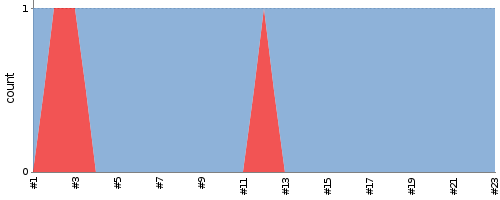
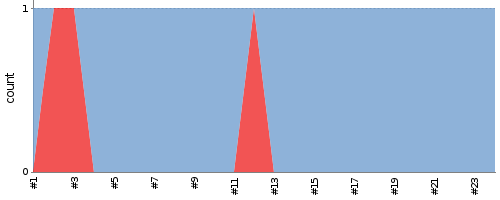
update report

diff --git a/index.md b/index.md
@@ -1,7 +1,7 @@
 ---
 layout: default
 ---
-Last update : 2016/01/30 13:21:10
+Last update : 2016/01/30 13:34:17
   
 ### Job Summary
 ___
@@ -306,11 +306,12 @@ ___
 ___
 #### Build Stability
 ![Jenkins Icon](http://jenkinshrg.github.io/images/48x48/health-80plus.png)
-87%
+88%
   
 #### Build History
 |Status|Time|Duration|Inspection|Test|Coverage|Changes|Build|Console|Image|Video|Note|
 |---|---|---|---|---|---|---|---|---|---|---|---|---|
+|![Jenkins Icon](http://jenkinshrg.github.io/images/24x24/blue.png)SUCCESS|2016/01/30 13:13|19 min.||0 err.||||[drc-wall-testbed.txt](https://drive.google.com/file/d/0B54sHwaxmuM4aGxNNlR4T2FiZ1U/view?usp=drivesdk)<br>|[drc-wall-testbed.png](https://drive.google.com/file/d/0B54sHwaxmuM4MkhRTWp4UXlaMWc/view?usp=drivesdk)<br>|[drc-wall-testbed.ogv](https://drive.google.com/file/d/0B54sHwaxmuM4OHBGU0ZReERJQmM/view?usp=drivesdk)<br>||
 |![Jenkins Icon](http://jenkinshrg.github.io/images/24x24/blue.png)SUCCESS|2016/01/30 12:13|18 min.||0 err.||||[drc-wall-testbed.txt](https://drive.google.com/file/d/0B54sHwaxmuM4c3FMUjd6Z1FkMmM/view?usp=drivesdk)<br>|[drc-wall-testbed.png](https://drive.google.com/file/d/0B54sHwaxmuM4aVVJUzRnM04zSms/view?usp=drivesdk)<br>|[drc-wall-testbed.ogv](https://drive.google.com/file/d/0B54sHwaxmuM4OWtvVkl5Z01yQlE/view?usp=drivesdk)<br>||
 |![Jenkins Icon](http://jenkinshrg.github.io/images/24x24/blue.png)SUCCESS|2016/01/30 11:13|19 min.||0 err.||||[drc-wall-testbed.txt](https://drive.google.com/file/d/0B54sHwaxmuM4bWJxTkdKRW1TSXc/view?usp=drivesdk)<br>|[drc-wall-testbed.png](https://drive.google.com/file/d/0B54sHwaxmuM4QkltLWQzS0RpZFU/view?usp=drivesdk)<br>|[drc-wall-testbed.ogv](https://drive.google.com/file/d/0B54sHwaxmuM4QVpOZGk4YlR0SDg/view?usp=drivesdk)<br>||
 |![Jenkins Icon](http://jenkinshrg.github.io/images/24x24/blue.png)SUCCESS|2016/01/30 10:13|18 min.||0 err.||||[drc-wall-testbed.txt](https://drive.google.com/file/d/0B54sHwaxmuM4am1LQkRva2pyZTQ/view?usp=drivesdk)<br>|[drc-wall-testbed.png](https://drive.google.com/file/d/0B54sHwaxmuM4YTRSZ0w1S1kzUFE/view?usp=drivesdk)<br>|[drc-wall-testbed.ogv](https://drive.google.com/file/d/0B54sHwaxmuM4YTZqM2w2X0NRYTQ/view?usp=drivesdk)<br>||
